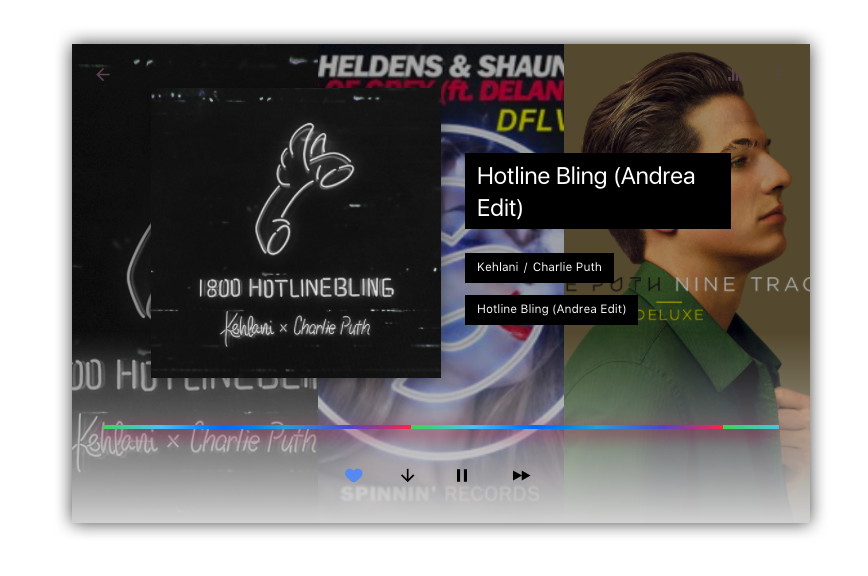
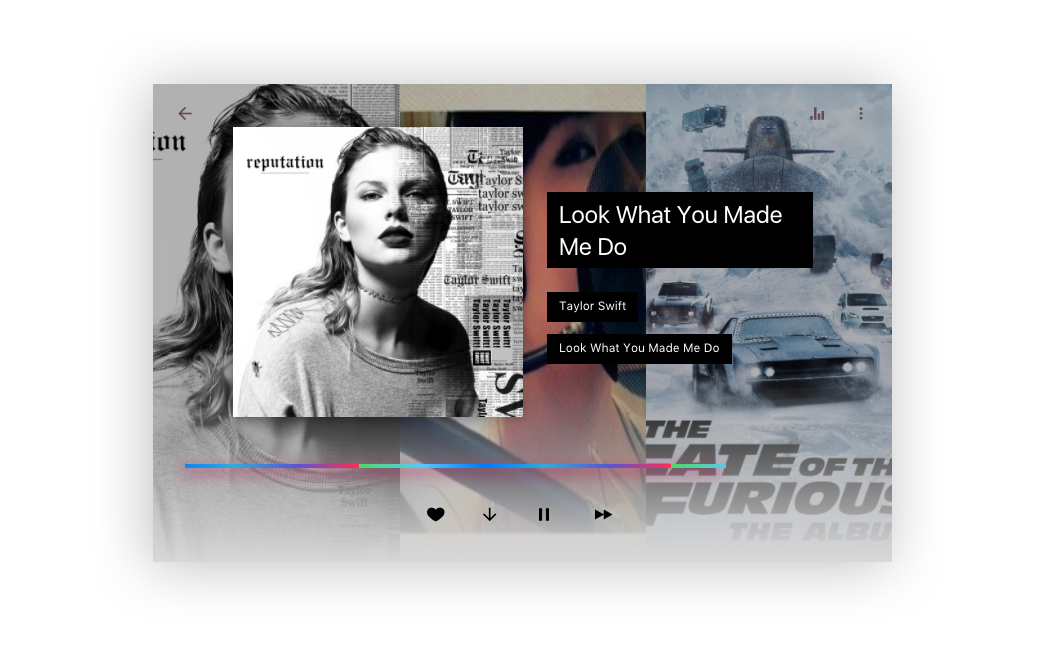
show player progress and seek player

diff --git a/src/js/components/AudioPlayer/index.js b/src/js/components/AudioPlayer/index.js
@@ -2,19 +2,22 @@
 import React, { Component } from 'react';
 import { inject, observer } from 'mobx-react';
 
+import helper from 'utils/helper';
+
 @inject(stores => ({
     song: stores.controller.song,
     next: stores.controller.next,
     playing: stores.controller.playing,
-    progress: stores.controller.onProgress,
 }))
 @observer
 export default class AudioPlayer extends Component {
     shouldComponentUpdate(nextProps) {
-        try {
-            this.refs.player[nextProps.playing ? 'play' : 'pause']();
-        } catch (ex) {
-            // Anti warnning
+        if (nextProps.playing !== this.props.playing) {
+            try {
+                this.refs.player[nextProps.playing ? 'play' : 'pause']();
+            } catch (ex) {
+                // Anti warnning
+            }
         }
 
         if (!nextProps.song.data
@@ -25,17 +28,34 @@ export default class AudioPlayer extends Component {
         return true;
     }
 
+    componentDidUpdate() {
+        this.ele = document.querySelector('#progress');
+    }
+
+    progress(currentTime) {
+        var ele = this.ele || document.querySelector('#progress');
+        var percent = (currentTime * 1000) / this.props.song.duration;
+
+        ele.firstElementChild.style.width = `${percent * 100}%`;
+        ele.firstElementChild.setAttribute('data-time', `${helper.getTime(currentTime * 1000)} / ${helper.getTime(this.props.song.duration)}`);
+
+        this.ele = ele;
+    }
+
+    componentDidMount() {
+        this.ele = document.querySelector('#progress');
+    }
+
     render() {
         var song = this.props.song.data || {};
 
         return (
             <audio
                 autoPlay={true}
-                onAbort={e => this.props.progress(0)}
+                onAbort={e => this.progress(0)}
                 onEnded={e => this.props.next()}
                 onError={e => console.log(e)}
-                onTimeUpdate={e => this.props.progress(e.target.currentTime)}
-                preload="metadata"
+                onTimeUpdate={e => this.progress(e.target.currentTime)}
                 ref="player"
                 src={song.src}
                 style={{

diff --git a/src/js/components/Controller/classes.js b/src/js/components/Controller/classes.js
@@ -40,13 +40,40 @@ export default theme => {
             position: 'absolute',
             left: 0,
             top: 0,
-            width: '0%',
+            width: '100vw',
             height: 2,
-            background: 'linear-gradient(to right,#62efab 5%,#f2ea7d 15%,#f2ea7d 25%,#ff8797 35%,#ff8797 45%,#e1a4f4 55%,#e1a4f4 65%,#82fff4 75%,#82fff4 85%,#62efab 95%)',
-            backgroundSize: '200%',
-            backgroundPosition: 0,
-            transition: 'all 0.3s ease-out',
-            animation: `${progress} 3s linear infinite`,
+            background: 'transparent',
+            cursor: 'pointer',
+            transition: '.2s',
+
+            '& > div': {
+                position: 'relative',
+                height: 2,
+                width: '0%',
+                background: 'linear-gradient(to right,#62efab 5%,#f2ea7d 15%,#f2ea7d 25%,#ff8797 35%,#ff8797 45%,#e1a4f4 55%,#e1a4f4 65%,#82fff4 75%,#82fff4 85%,#62efab 95%)',
+                backgroundSize: '200%',
+                backgroundPosition: 0,
+                transition: 'all .2s ease-out',
+                animation: `${progress} 3s linear infinite`,
+            },
+
+            '& > div:after': {
+                content: 'attr(data-time)',
+                position: 'absolute',
+                right: 0,
+                bottom: 2,
+                display: 'inline-block',
+                padding: '8px 6px',
+                fontFamily: 'Roboto',
+                fontSize: 12,
+                color: '#fff',
+                background: '#000',
+                whiteSpace: 'nowrap',
+            },
+
+            '&:hover': {
+                background: '#ddd',
+            }
         },
 
         info: {

diff --git a/src/js/components/Controller/index.js b/src/js/components/Controller/index.js
@@ -14,14 +14,20 @@ import classes from './classes';
     prev: stores.controller.prev,
     toggle: stores.controller.toggle,
     playing: stores.controller.playing,
-    progress: stores.controller.progress,
     changeMode: stores.controller.changeMode,
     isLiked: stores.me.isLiked,
 }))
 @observer
 class Controller extends Component {
+    seek(e) {
+        var percent = e.clientX / window.innerWidth;
+        var time = this.props.song.duration * percent;
+
+        document.querySelector('audio').currentTime = time / 1000;
+    }
+
     render() {
-        var { classes, song, mode, prev, next, toggle, isLiked, playing, progress } = this.props;
+        var { classes, song, mode, prev, next, toggle, isLiked, playing } = this.props;
 
         if (!song.id) {
             return false;
@@ -31,9 +37,10 @@ class Controller extends Component {
             <div className={classes.container}>
                 <div
                     className={classes.bar}
-                    style={{
-                        width: `${progress * 100}%`
-                    }} />
+                    id="progress"
+                    onClick={e => this.seek(e)}>
+                    <div />
+                </div>
 
                 <section>
                     <Link to={song.album.link}>

diff --git a/server/api.js b/server/api.js
@@ -240,9 +240,9 @@ app.use('/user/subcount', require('../NeteaseCloudMusicApi/router/user_subcount'
 app.use('/user/record', require('../NeteaseCloudMusicApi/router/user_playrecord'));
 
 app.use('/home', cache('5 minutes', onlyStatus200), require('./router/home'));
-app.use('/player', cache('5 minutes', onlyStatus200), require('./router/player'));
-app.use('/user', cache('1 hour', onlyStatus200), require('./router/user'));
-app.use('/artist', cache('1 hour', onlyStatus200), require('./router/artist'));
+app.use('/player', require('./router/player'));
+app.use('/user', require('./router/user'));
+app.use('/artist', require('./router/artist'));
 app.use('/top', cache('1 hour', onlyStatus200), require('./router/top'));
 app.use('/playlist', cache('1 hour', onlyStatus200), require('./router/playlist'));
 app.use('/fm', require('./router/fm'));

diff --git a/src/js/stores/controller.js b/src/js/stores/controller.js
@@ -9,7 +9,6 @@ const MODES = [PLAYER_SHUFFLE, PLAYER_REPEAT, PLAYER_LOOP];
 
 class Controller {
     @observable playing = false;
-    @observable progress = 0;
     @observable mode = PLAYER_SHUFFLE;
 
     // A strcut should contains 'id' and 'songs'
@@ -151,10 +150,6 @@ class Controller {
         } else {
             self.mode = PLAYER_SHUFFLE;
         }
-    }
-
-    @action onProgress(currentTime = 0) {
-        self.progress = (currentTime * 1000) / self.song.duration;
     }
 }
 
